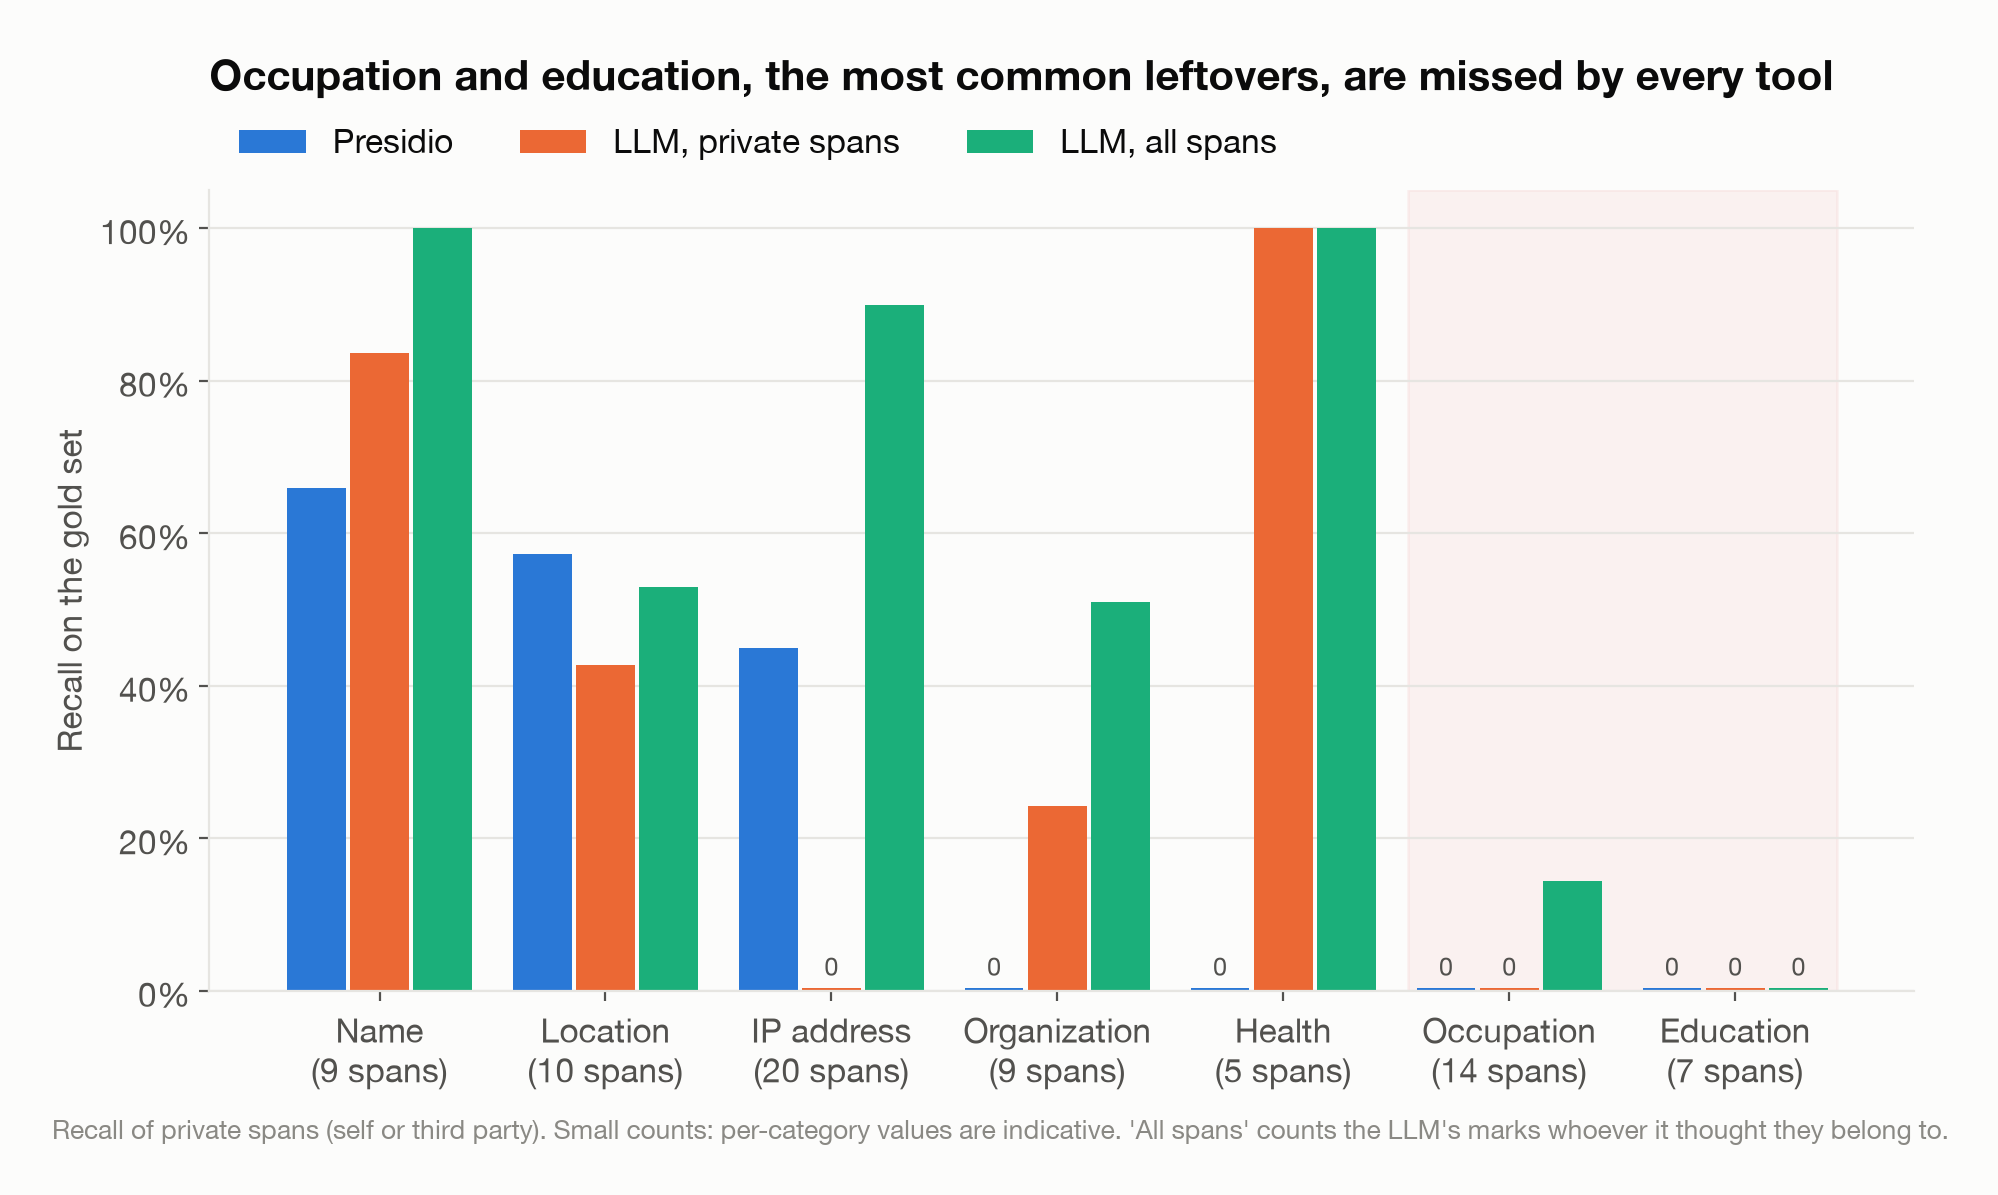
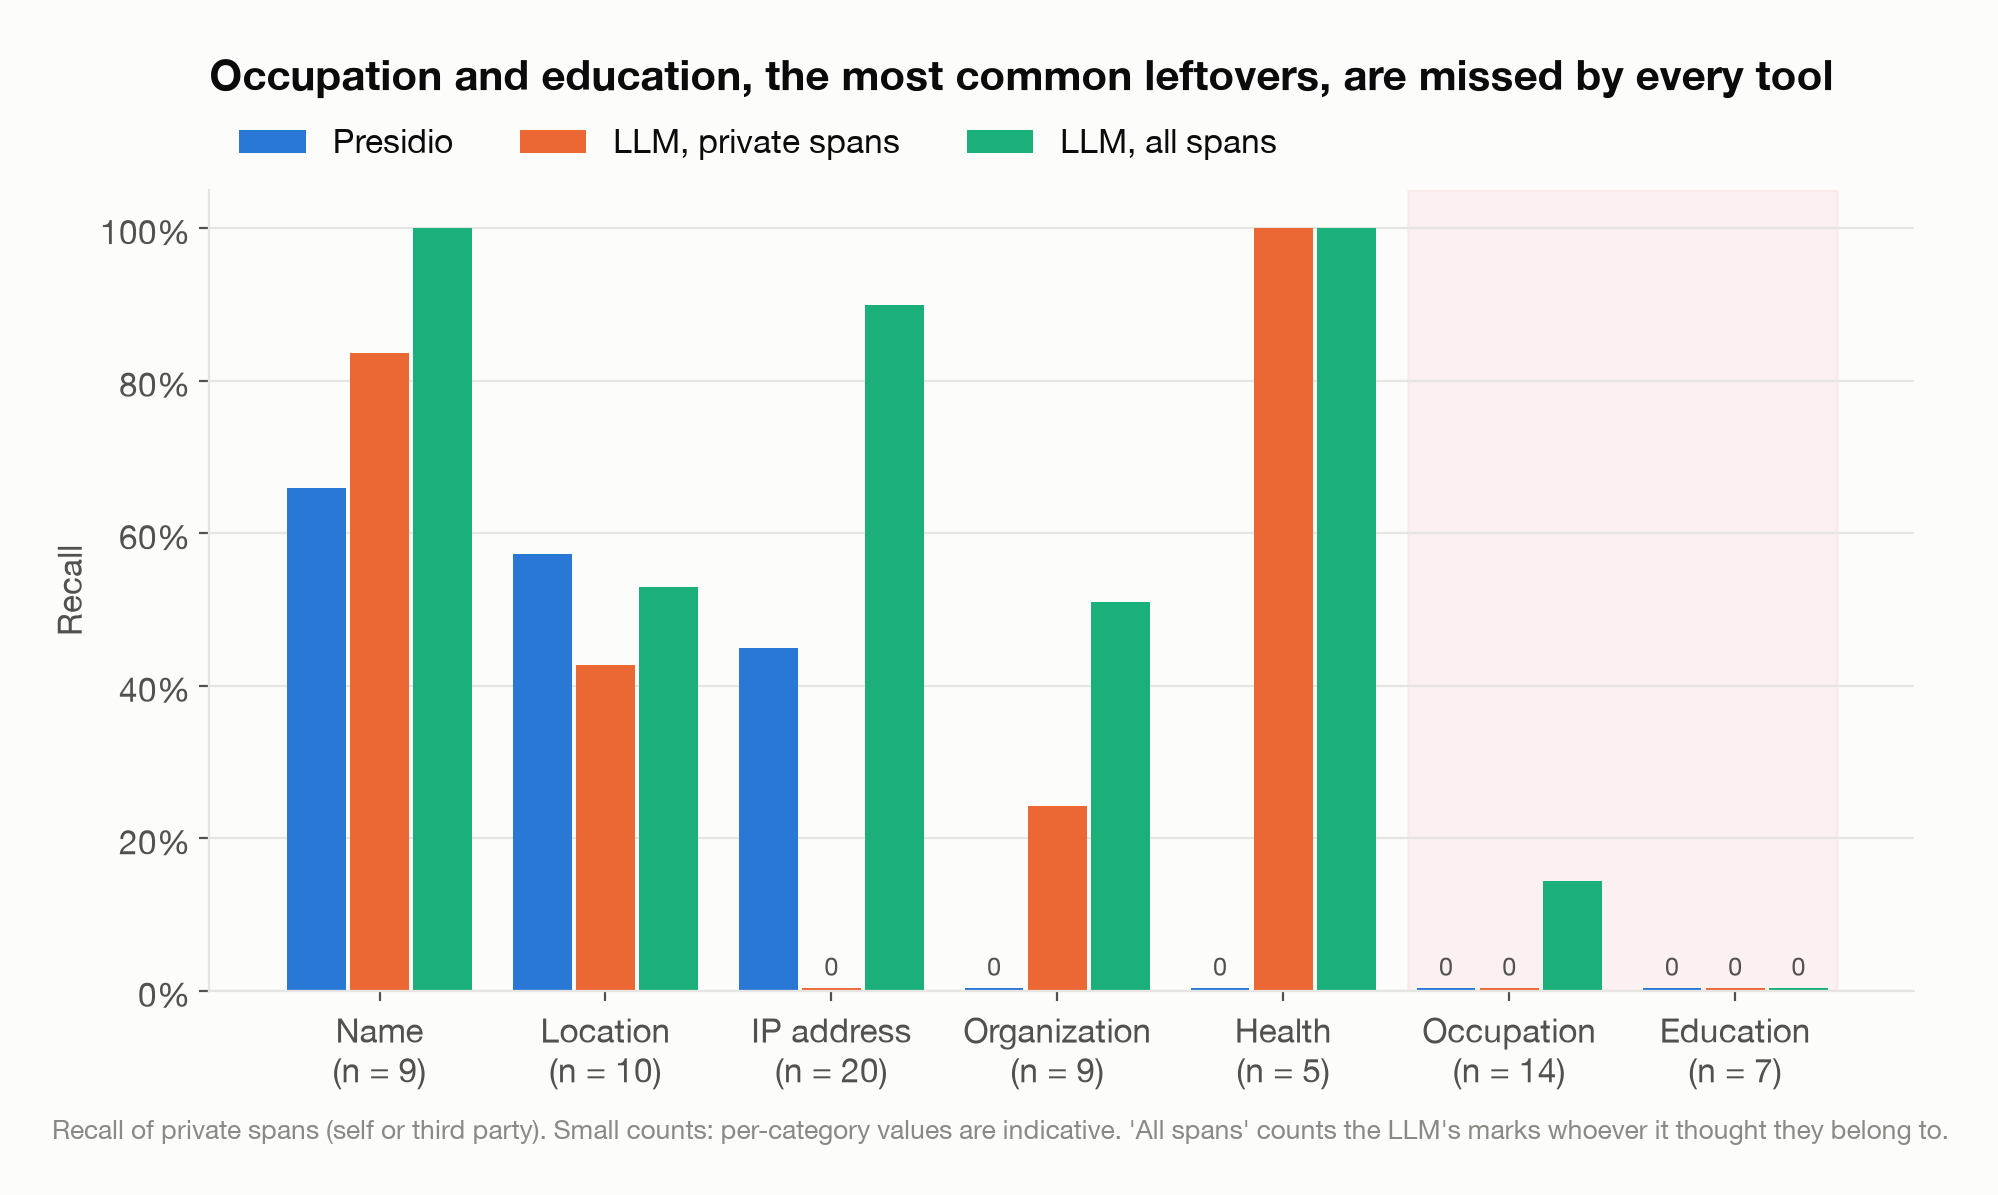
Recall-by-category figure: plain recall axis, n per category

diff --git a/src/residpii/presentation.py b/src/residpii/presentation.py
@@ -175,11 +175,11 @@ def fig_recall_by_category():
             if v == 0:
                 ax.text(x, 0.02, "0", ha="center", fontsize=9, color=INK2)
     n = pr[pr.detector == "presidio"].set_index("category").n
-    ax.set_xticks(range(len(cats)), [f"{lab}\n({int(n.get(c, 0))} spans)" for lab, c in cats])
+    ax.set_xticks(range(len(cats)), [f"{lab}\n(n = {int(n.get(c, 0))})" for lab, c in cats])
     _pct(ax, "y")
     ax.set_ylim(0, 1.05)
     ax.grid(axis="x", visible=False)
-    ax.set_ylabel("Recall on the gold set")
+    ax.set_ylabel("Recall")
     _title(ax, "Occupation and education, the most common leftovers, are missed by every tool")
     ax.legend(loc="lower left", bbox_to_anchor=(0, 1.0), ncol=3)
     _title(ax, "Occupation and education, the most common leftovers, are missed by every tool", pad=36)
